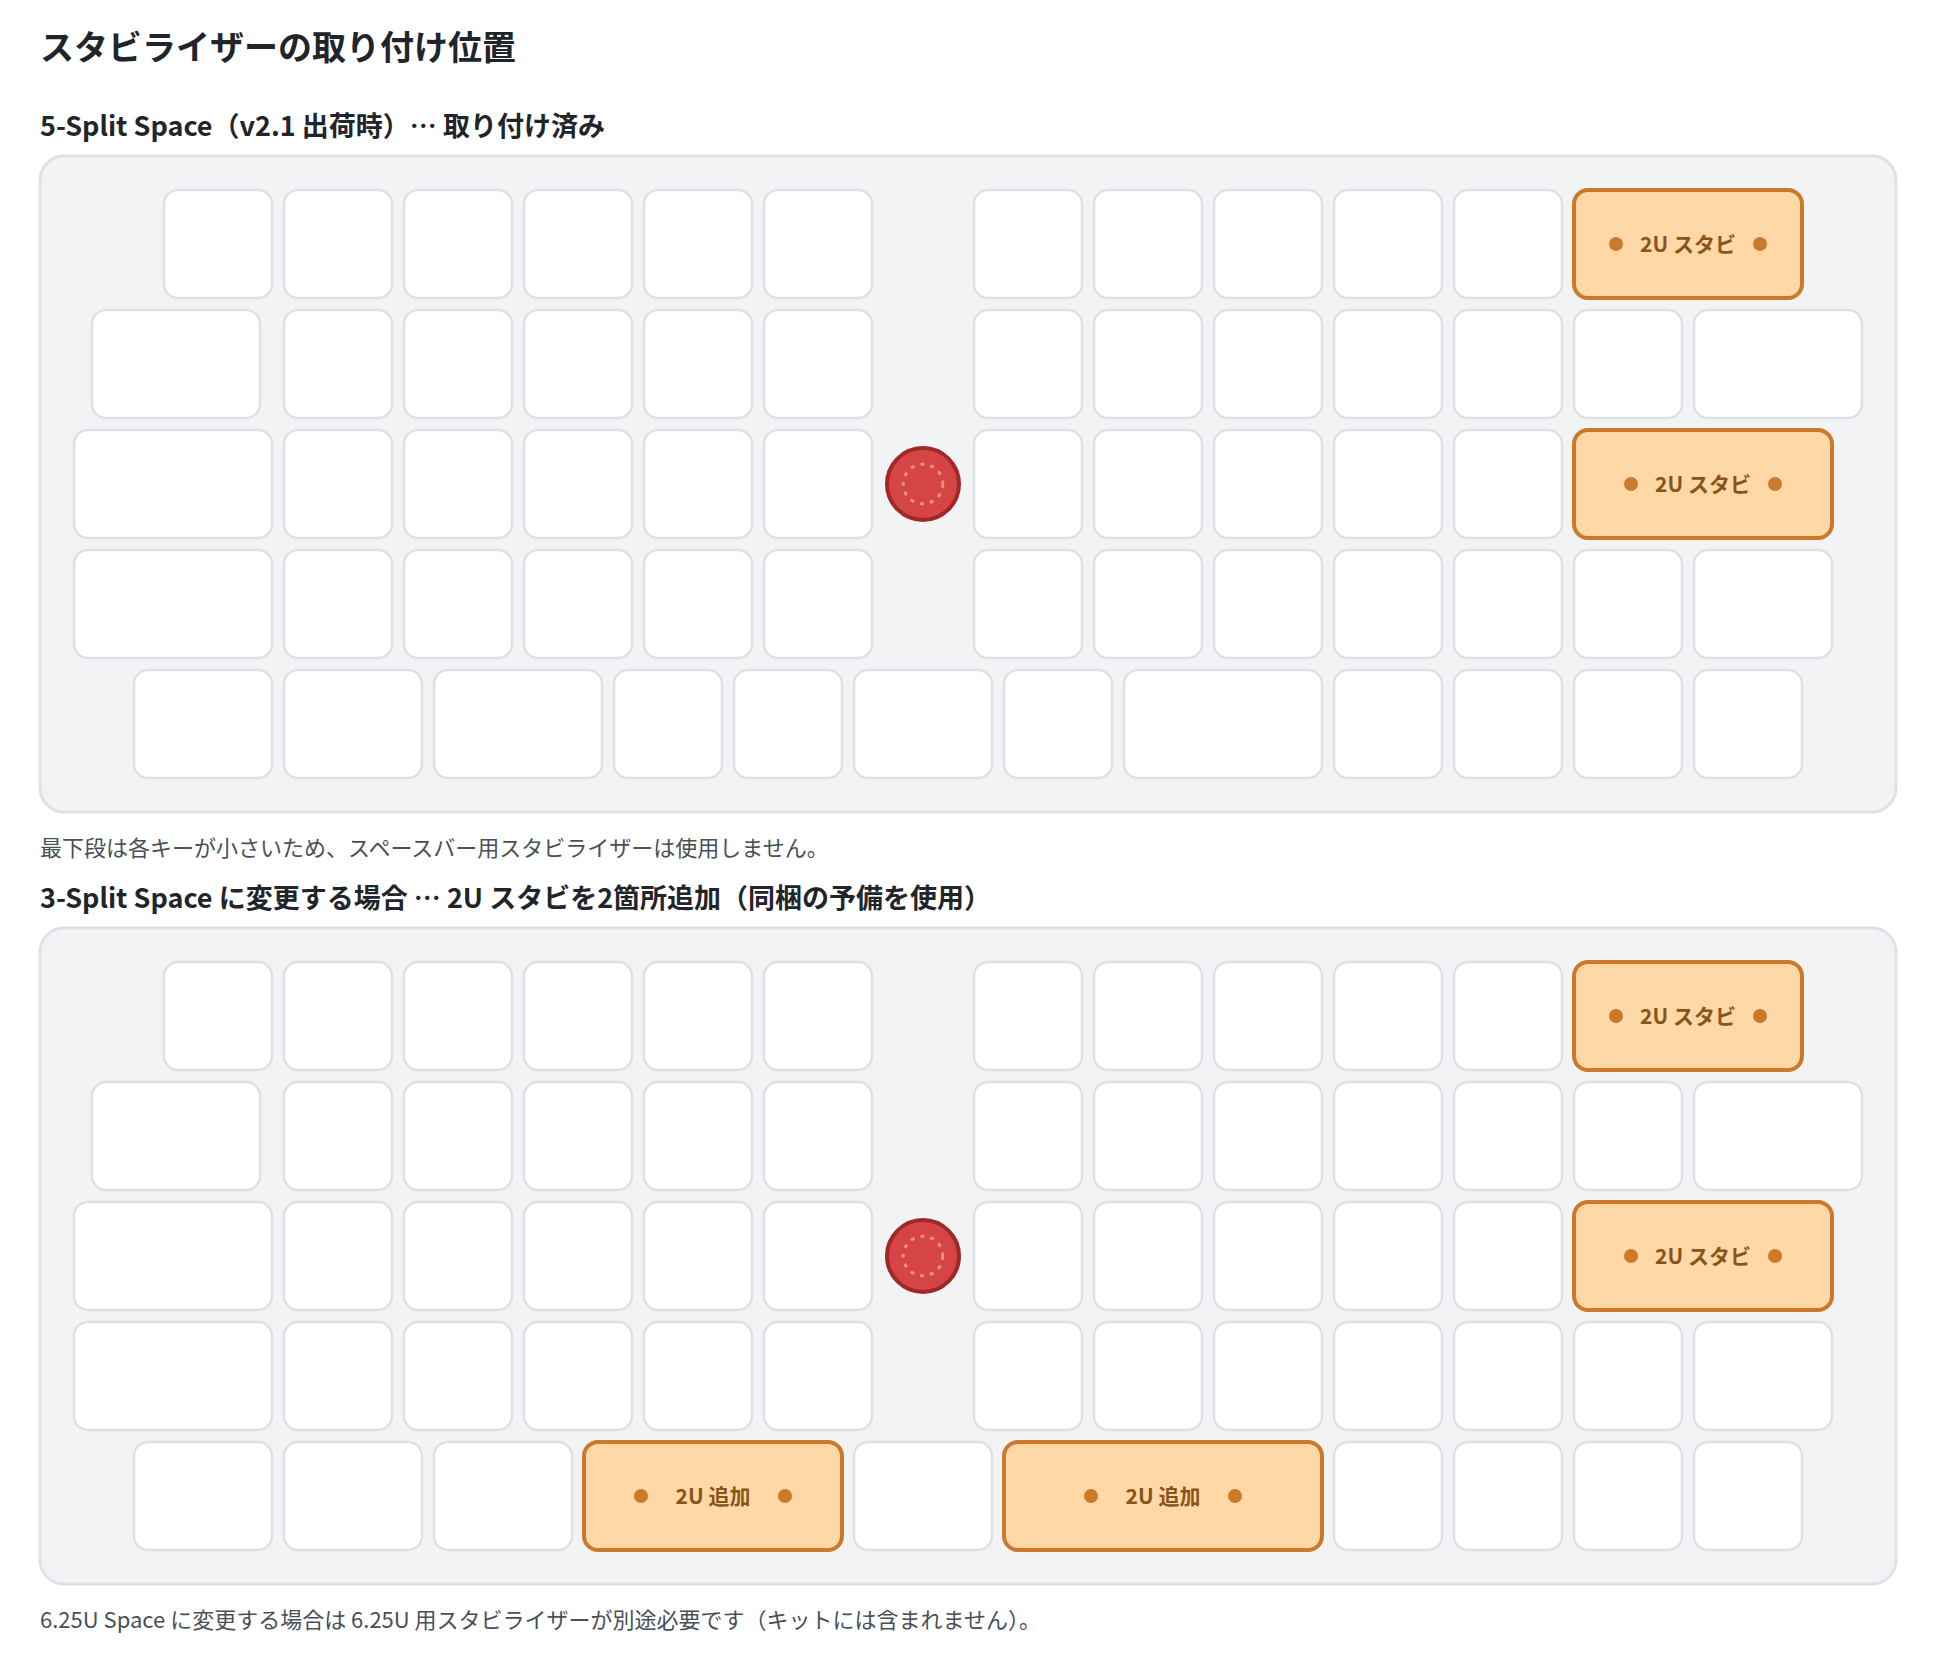
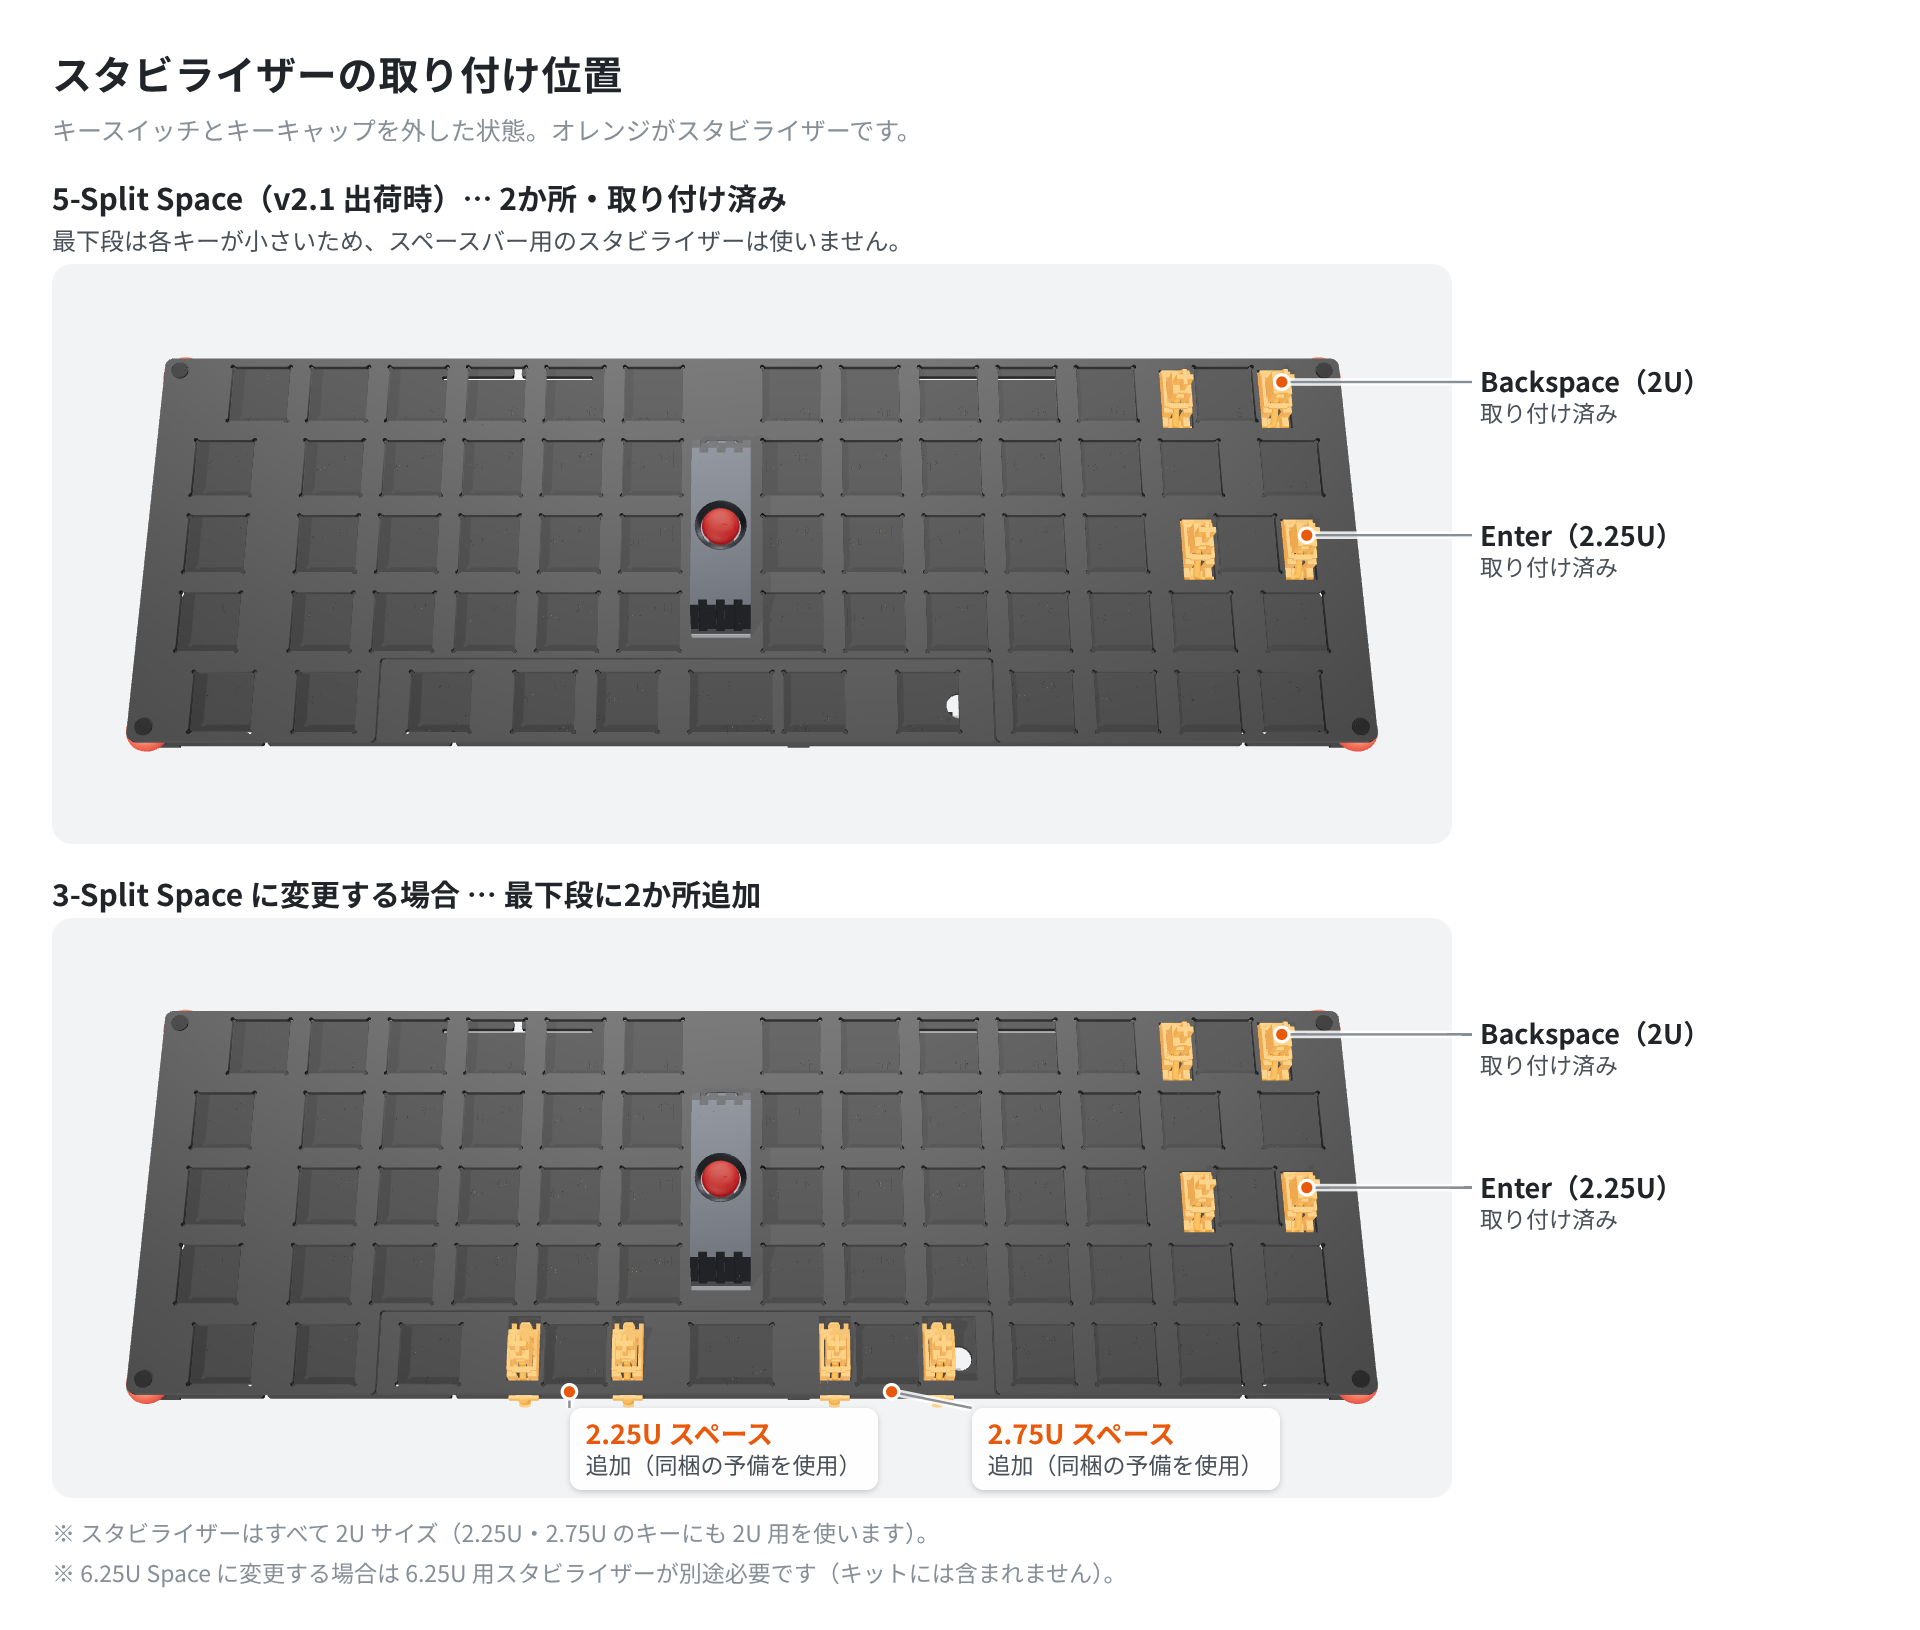
docs: redraw the build-guide assembly figures in 3D and fix the steps
Replace the exploded view, FFC handling, stabilizer positions, pin check
and switch insertion figures with labelled 3D renders, and add a figure
for the corner mounts and the case fit. Describe how the board is held
(spacers screwed from both sides, O-rings pressing on the case walls,
no case screws), the 2.25U Enter, the 1.6 mm plate, the switch
orientation, and the 5-Split bottom-row keycap sizes.

Claude-Session: https://claude.ai/code/session_0131FaQTqTWWCuVEr83A3pz8

diff --git a/tools/keydiagram/sync_parts.py b/tools/keydiagram/sync_parts.py
@@ -23,10 +23,12 @@ HERE = os.path.dirname(os.path.abspath(__file__))
 IMAGES = os.path.normpath(os.path.join(HERE, '..', '..', 'docs', 'images'))
 
 # 部品名 -> (マスターファイル, 複製先の図)
+# mx-switch-front の複製先だったビルドガイドの組み立て図（switch-pins / switch-mount /
+# build-exploded）は 3D モデルから描画した PNG に置き換えたため、現在は複製先がない。
 PARTS = {
     'mx-switch-front': (
         os.path.join(HERE, 'parts', 'mx-switch.svg'),
-        ['switch-pins.svg', 'switch-mount.svg', 'build-exploded.svg'],
+        [],
     ),
 }
 

diff --git a/tools/keydiagram/README.md b/tools/keydiagram/README.md
@@ -108,7 +108,12 @@ GitHub 上で表示される SVG は外部ファイルを参照できない（`<
 
 | 部品 | マスター | 複製先 |
 |---|---|---|
-| `mx-switch-front` | `parts/mx-switch.svg` | `switch-pins.svg` / `switch-mount.svg` / `build-exploded.svg` |
+| `mx-switch-front` | `parts/mx-switch.svg` | （なし） |
+
+ビルドガイドの組み立て図（`build-exploded.png` / `flat-cable-handling.png` /
+`stab-positions.png` / `switch-pins.png` / `switch-mount.png` / `case-mount.png`）は
+3D モデルから描画した PNG で、このツールでは生成しない。以前はこれらの SVG 版が
+`mx-switch-front` の複製先だった。
 
 スイッチ部品の形状は `docs/images/cherry-mx-switch-views.svg`（三面図）の正面図から
 取り出したもので、縮尺は **6px = 1mm**。寸法の根拠は
